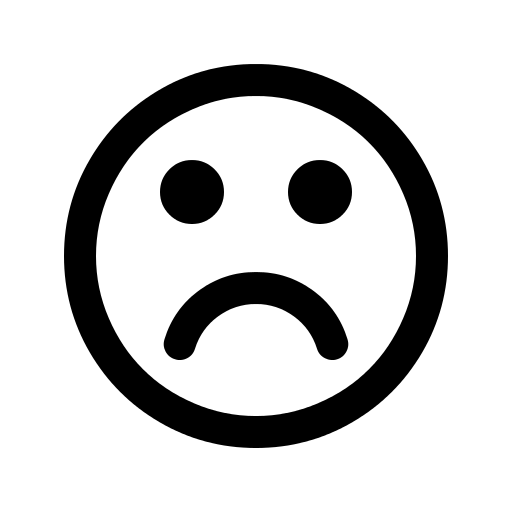
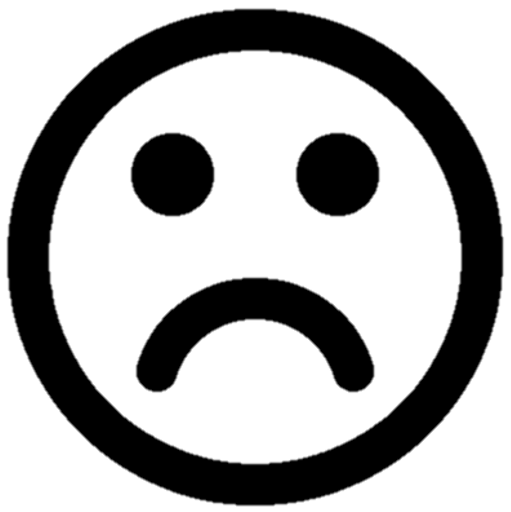
檢舉圖片

diff --git a/assets/js/js_article/mainJS.js b/assets/js/js_article/mainJS.js
@@ -125,10 +125,10 @@ function setPage() {
       document.getElementById("niceCount").innerHTML = "有 "+res.lnicer+" 人推薦";
     }
     if(res.isReport) {
-      document.getElementById("report").innerHTML = "<button value='收回' class='n' onclick='cancelReport()'><img style='width:24px; height:22px;' src='/images/img_forum/report2_icon.png'/>&nbsp收回</button>";
+      document.getElementById("report").innerHTML = "<button value='收回' class='n' onclick='cancelReport()'><img style='width:24px; height:24px;' src='/images/img_forum/bad2_icon.png'/>&nbsp收回</button>";
       document.getElementById("reportCount").innerHTML = "有 "+res.reportCount+" 人檢舉";
     } else {
-      document.getElementById("report").innerHTML = "<button value='檢舉' class='n' onclick='clickReport()'><img style='width:24px; height:22px;' src='/images/img_forum/report_icon.png'/>&nbsp檢舉</button>";
+      document.getElementById("report").innerHTML = "<button value='檢舉' class='n' onclick='clickReport()'><img style='width:24px; height:24px;' src='/images/img_forum/bad_icon.png'/>&nbsp檢舉</button>";
       document.getElementById("reportCount").innerHTML = "有 "+res.reportCount+" 人檢舉";
     }
 
@@ -259,7 +259,7 @@ function clickReport() {
   var url = document.URL;
   var regex = /.*article\/+(.*)\?page=+(.*)/;
   var id = url.replace(regex,"$1");
-  document.getElementById("report").innerHTML = "<button value='收回' class='n' onclick='cancelReport();'><img style='width:24px; height:22px;' src='/images/img_forum/report2_icon.png'/>&nbsp收回</button>";
+  document.getElementById("report").innerHTML = "<button value='收回' class='n' onclick='cancelReport();'><img style='width:24px; height:24px;' src='/images/img_forum/bad2_icon.png'/>&nbsp收回</button>";
   $.post("/clickReport", {article_id: id}, function(res){
     document.getElementById("reportCount").innerHTML = "有 "+res.num+" 人檢舉";
   }).error(function(res){
@@ -271,11 +271,11 @@ function cancelReport() {
   var url = document.URL;
   var regex = /.*article\/+(.*)\?page=+(.*)/;
   var id = url.replace(regex,"$1");
-  document.getElementById("report").innerHTML = "<button value='推薦' class='n' onclick='clickReport()'><img style='width:24px; height:22px;' src='/images/img_forum/report_icon.png'/>&nbsp檢舉</button>";  
+  document.getElementById("report").innerHTML = "<button value='推薦' class='n' onclick='clickReport()'><img style='width:24px; height:24px;' src='/images/img_forum/bad_icon.png'/>&nbsp檢舉</button>";  
   $.post("/cancelReport", {article_id: id}, function(res){
     document.getElementById("reportCount").innerHTML = "有 "+res.num+" 人檢舉";
   }).error(function(res){
-    document.getElementById("report").innerHTML = "<button value='收回' class='n' onclick='cancelReport();'><img style='width:24px; height:22px;' src='/images/img_forum/report2_icon.png'/>&nbsp收回</button>"; 
+    document.getElementById("report").innerHTML = "<button value='收回' class='n' onclick='cancelReport();'><img style='width:24px; height:24px;' src='/images/img_forum/bad2_icon.png'/>&nbsp收回</button>"; 
     alert(res.responseJSON.err);
   });
 }

diff --git a/assets/js/js_forum/mainJS.js b/assets/js/js_forum/mainJS.js
@@ -141,7 +141,7 @@ function setPage(page, keyword, sort) {
           if(articleList[i+articleNum*(page-1)].reporter) {
             if(articleList[i+articleNum*(page-1)].reporter.length>=maxReport) {
               var color="color:#FF0000;";
-              var badPic='<img src="/images/img_forum/bad_article.jpg" title="檢舉" style="margin-right:10px; height:50px; width:50px;">';
+              var badPic='<img src="/images/img_forum/bad2_icon.png" title="這篇文章被檢舉三次以上了喔!" style="margin-right:10px; height:40px; width:40px;">';
             } else {
               var color="";
               var badPic="";
@@ -209,7 +209,7 @@ function setPage(page, keyword, sort) {
           if(articleList[i+articleNum*(page-1)].reporter) {
             if(articleList[i+articleNum*(page-1)].reporter.length>=maxReport) {
               var color="color:#FF0000;";
-              var badPic='<img src="/images/img_forum/bad_article.jpg" title="檢舉" style="margin-right:10px; height:50px; width:50px;">'
+              var badPic='<img src="/images/img_forum/bad2_icon.png" title="這篇文章被檢舉三次以上了喔!" style="margin-right:10px; height:40px; width:40px;">'
             } else {
               var color="";
               var badPic="";

diff --git a/assets/styles/css_article/style.css b/assets/styles/css_article/style.css
@@ -14,11 +14,12 @@
 
 #backToList{
 	width: 170px;
-	height:48px;
+	//height:48px;
 }
+
 #editArticle, #deleteArticle, #commentSend, #addImage{
 	width: 130px;
-	height:48px;
+	//height:48px;
 }
 
 #article{
